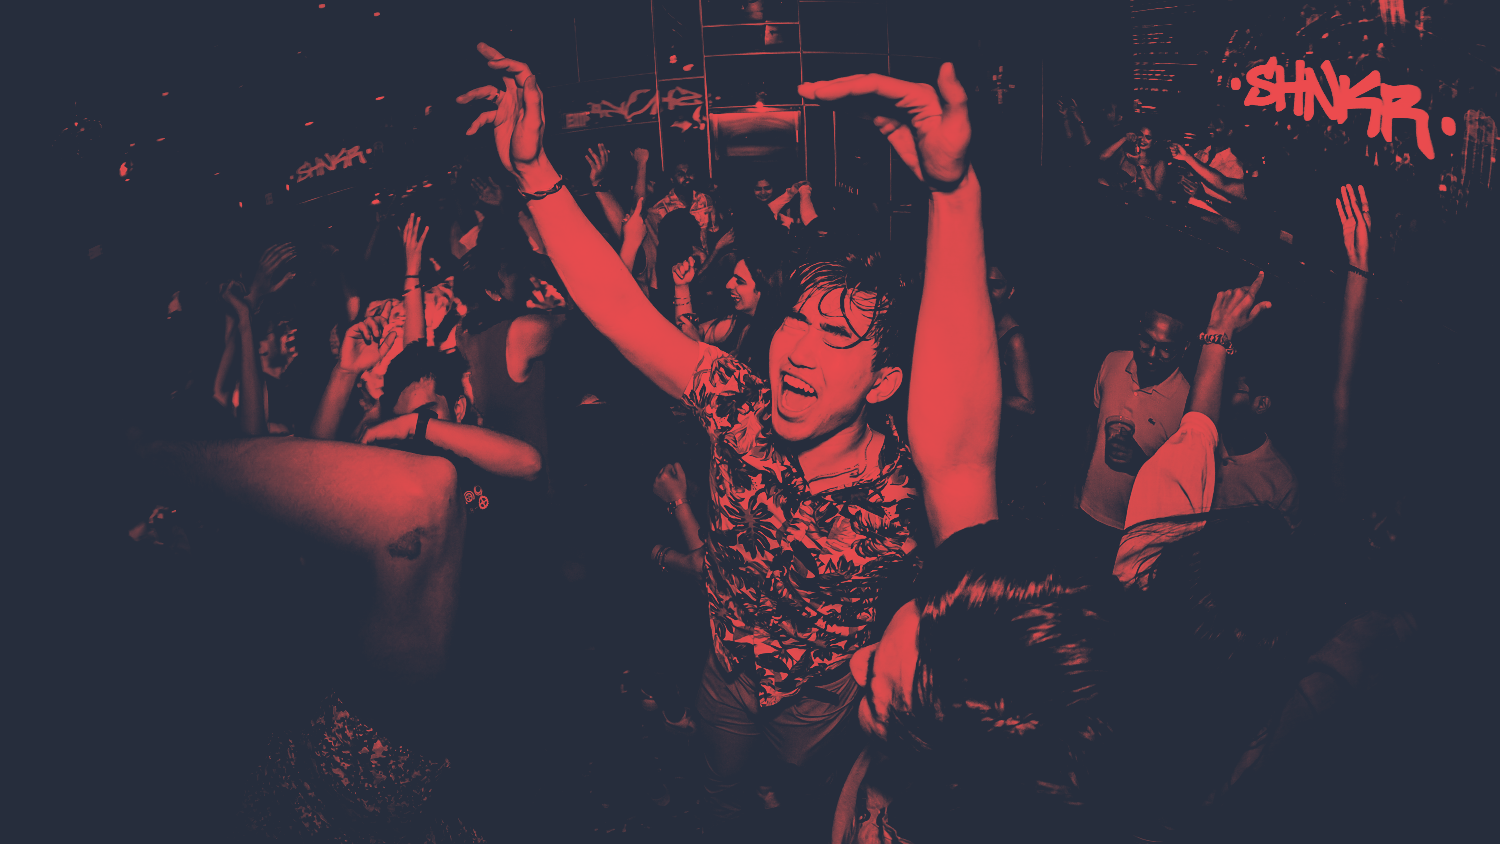
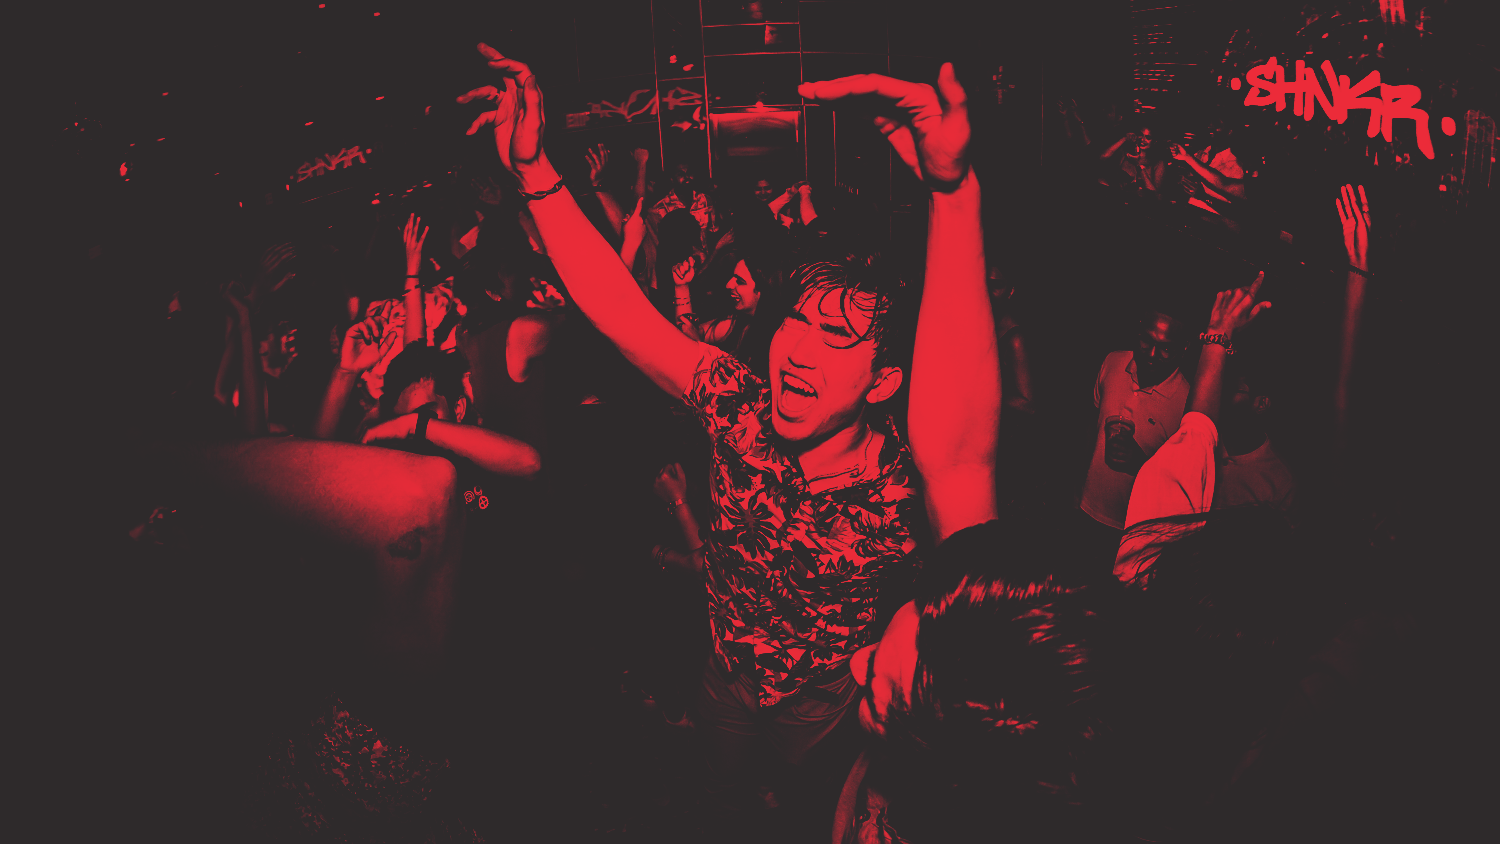
Updated site designs

diff --git a/index.html b/index.html
@@ -25,7 +25,7 @@
     <body>
       <nav id="navbar" class="navbar navbar-expand-lg fixed-top">
           <div class="container px-5">
-              <a class="navbar-brand" href="#header">SHNKR</a>
+              <a class="navbar-brand" href="#header">• S H N K R •</a>
               <button class="navbar-toggler" type="button" data-bs-toggle="collapse" data-bs-target="#navbarResponsive" aria-controls="navbarResponsive" aria-expanded="false" aria-label="Toggle navigation">
                   Menu
                   <i class="bi-list"></i>
@@ -52,7 +52,7 @@
               <div class="col-lg-6 col-mb-12">
                   <!-- Mashead text and app badges-->
                   <div class="">
-                    <h1 class="display-1"></h>SHNKR MUSIC</h1>
+                    <h1 class="display-1"></h>S H N K R</h1>
                     <h2 class="fw-heavy  mb-6">DJ | PRODUCER</h2>
                   </div>
                   </div>
@@ -72,14 +72,13 @@
                       <hr />
                       <br />
                       <p>
-                        Producer and DJ based in NYC, SHNKR is a creative force in House and Techno. Infusing his work with influences from his Indian roots, SHNKR weaves traditional rhythms with modern, hypnotic beats, creating a captivating sonic tapestry that is both culturally rich and innovatively fresh.
+                        Producer and DJ based in NYC, SHNKR is a creative force in House and Techno, shaping a bold new direction for the genre. Infusing his work with influences from his Indian roots, SHNKR weaves traditional rhythms with modern, hypnotic beats, creating a captivating sonic tapestry that is both culturally rich and innovatively fresh.
+                      </p>
+                      <p>
+                        One year into the making, SHNKR has already left an indelible mark by headlining sold-out shows at esteemed venues in New York and Boston and garnering over 100k streams across platforms and over 1000 monthly listeners on Spotify. His signature Indo house and techno sets seamlessly blend authenticity with a vibrant energy that enchants audiences.
                       </p>
                         <p>
-
-                        One year into the making, SHNKR has already left an indelible mark by headlining sold-out shows at esteemed venues in New York and Boston. His signature Indo house and techno sets seamlessly blend authenticity with a vibrant energy that enchants audiences.
-                      </p>
-                        <p>
-                        SHNKR's edits and remixes have garnered support from over 500 DJs worldwide, affirming the universal appeal of his sound. With an arsenal of unreleased music poised to captivate the industry, SHNKR is a rising talent set to resonate across the global music scene.
+                        SHNKR's edits and remixes have garnered support from over 1000 DJs worldwide, affirming the universal appeal of his sound. With an arsenal of unreleased music poised to captivate the industry, SHNKR is a rising talent set to resonate across the global music scene.
                       </p>
                   </div>
                 </br>
@@ -90,7 +89,8 @@
                     <p> Headlined a sold-out show at Bijou, Boston's premier club known for hosting techno and house legends like Argy, Cassian, Yotto, Blonish, Maz, and Francis Mercier.
 Captivated an audience of 400+ with a signature Indo house and techno set.</p>
                   </div>
-                  <a class="" href="https://www.instagram.com/shnkrmusic">REQUEST UNRELEASED DEMOS<p/></a>
+                  <a class="" href="https://drive.google.com/drive/folders/1fUyVX6L1nelTFyV4fs9n0a4GCk4S9Tsd?usp=sharing"><p>PROMO VIDEOS<p/></a>
+                  <a class="" href="https://www.instagram.com/shnkrmusic"><p>REQUEST UNRELEASED DEMOS<p/></a>
 
               </div>
             </div>
@@ -112,6 +112,22 @@ Captivated an audience of 400+ with a signature Indo house and techno set.</p>
               </div>
       </section>
 
+      <section class="custom-card-panel music-03 px-5 ">
+        <div class="container">
+          <div class="row">
+                          <h2 class="display-2">Youtube</h2>
+                          <hr />
+                          <br />
+
+                <div class="col-lg-6">
+                  <iframe class="soundclud-embed" width="100%" height="300" src="https://www.youtube.com/embed/82Bx04PesWM?si=RSop2j1BWucySz3Z" title="YouTube video player" frameborder="0" allow="accelerometer; autoplay; clipboard-write; encrypted-media; gyroscope; picture-in-picture; web-share" referrerpolicy="strict-origin-when-cross-origin" allowfullscreen></iframe>
+                </div>
+
+                <div class="col-lg-6">
+                  <iframe class="soundclud-embed" width="100%" height="300" src="https://www.youtube.com/embed/XmH78SgnyEY?si=e2K5Zeimtbqvd5Sm" title="YouTube video player" frameborder="0" allow="accelerometer; autoplay; clipboard-write; encrypted-media; gyroscope; picture-in-picture; web-share" referrerpolicy="strict-origin-when-cross-origin" allowfullscreen></iframe>
+                </div>
+          </div>
+      </section>
 
       <section class=" custom-card-panel music-02 px-5 ">
         <div class="container">
@@ -212,7 +228,7 @@ Captivated an audience of 400+ with a signature Indo house and techno set.</p>
         <!-- Footer-->
         <footer class="bg-black text-center py-3">
             <div class="container px-3">
-                    <div class="mb-2 color-primary">&copy; SHNKR Music 2023</div>
+                    <div class="mb-2 color-primary">&copy; SHNKR Music 2024</div>
             </div>
         </footer>
 

diff --git a/css/custom.css b/css/custom.css
@@ -21,10 +21,10 @@ div.bio-profile::before {
   width: 100%;
   height: 100%;
   padding: 15rem 0;
-  background-image: url(../img/bio-pic.png);
+  background-image: url(../img/bio-pic.jpg);
   background-position: center;
   background-size: cover;
-  opacity: 0.8;
+  opacity: 1;
   z-index: -1;
 }
 
@@ -64,7 +64,7 @@ div.bio-profile::before {
 
 .scrolled {
   /* background-color: rgba(31, 31, 40, 1); */
-  background-image: url(../img/bio-pic.png);
+  background-image: url(../img/banner-01.jpg);
   transition: all 3s ease-in-out;
   -webkit-transition: all 0.15s ease-in-out;
 }

diff --git a/css/styles.css b/css/styles.css
@@ -23,7 +23,7 @@
   --bs-cyan: #0dcaf0;
   --bs-white: #fff;
   --bs-gray: #6c757d;
-  --bs-gray-dark: #1f1828;
+  --bs-gray-dark: #212120;
   --bs-gray-100: #f8f9fa;
   --bs-gray-200: #e9ecef;
   --bs-gray-300: #dee2e6;
@@ -32,7 +32,7 @@
   --bs-gray-600: #6c757d;
   --bs-gray-700: #495057;
   --bs-gray-800: #343a40;
-  --bs-gray-900: #212121;
+  --bs-gray-900: #212120;
   --bs-primary: #dc5b44;
   --bs-secondary: #dc5b44;
   --bs-success: #198754;

diff --git a/css/neomorphic.css b/css/neomorphic.css
@@ -37,7 +37,7 @@
   --bs-warning-rgb: 255, 193, 7;
   --bs-danger-rgb: 220, 53, 69;
   --bs-light-rgb: 248, 249, 250;
-  --bs-dark-rgb: 33, 37, 41;
+  --bs-dark-rgb: 33, 33, 32;
   --bs-white-rgb: 255, 255, 255;
   --bs-black-rgb: 0, 0, 0;
   --bs-body-color-rgb: 33, 37, 41;

diff --git a/css/main.css b/css/main.css
@@ -5,7 +5,7 @@ body {
 
 .shnkr-background {
   z-index: -100;
-  background: url(../img/shnkr.png);
+  background: url(../img/banner-01.jpg);
   background-position: center;
   background-size: cover;
 }
